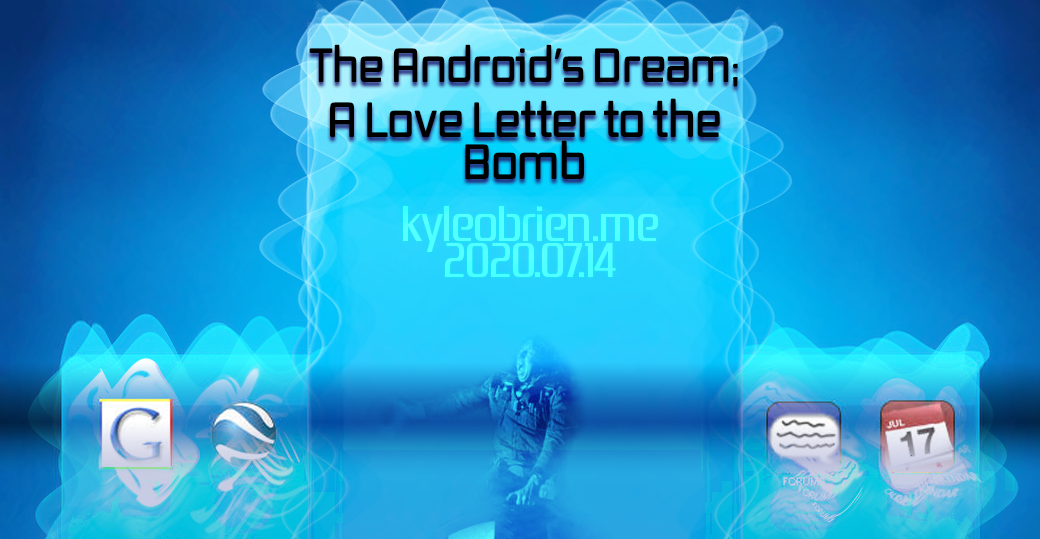
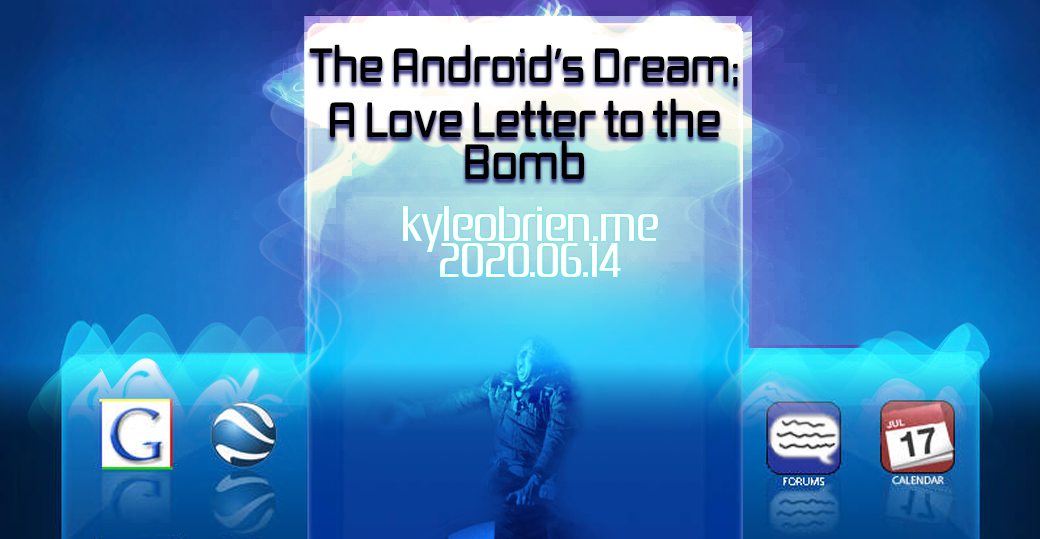
demote android-dream from featured

diff --git a/_posts/2020-06-14-the-androids-dream-a-love-letter-to-the-bomb.md b/_posts/2020-06-14-the-androids-dream-a-love-letter-to-the-bomb.md
@@ -11,7 +11,7 @@ categories:
   - narrative
 image:
   path: /assets/img/blog/posts/a-universe/the-androids-dream-cover-lg.png
-featured: true
+permalink: /the-androids-dream/
 ---
 
 #### [UPDATE.PBP](https://consolemods.org/wiki/PSP:Updating_your_Firmware_(OFW))
@@ -24,7 +24,7 @@ Agentic work is something I briefly touched on in my [AI ethics piece](/ai-ethic
 
 Automating my `XX` years of exploring the web, studying servers, testing infrastructure, writing code, all the things... What does it mean when we're building up whole universes at the snap of a finger? Alchemical weapons have existed long before the rise of LLMs, and reproducing failed tests typically increases the likelihood of greenery when mindfully inquired about. Whether this love letter falls apart or not, that's for anyone to say.
 
-There are many references to Docker containers, infrastructure (infra), and abstract representations of concepts (read: `colour`). There be dragons here.
+There are many references to Docker containers, infrastructure (infra), and abstract representations of concepts (read: `colour`). [There be dragons here](/assets/ephemera/wordpress-backup.conf).
 
 ## Introduction
 

diff --git a/_posts/2022-08-03-waking-software-engineering.md b/_posts/2022-08-03-waking-software-engineering.md
@@ -4,7 +4,7 @@ title: "Waking Software Engineering"
 date: 2022-08-03 00:00:00 +0000
 description: "When asked, \"How did you get started in software?\" I'll summarize my career path or share a handful of short stories about `the long, long ago` when I began tinkering with JavaScript..."
 image:
-  path: /assets/img/blog/posts/waking-software-engineering/waking-software-engineering-web-2.png
+  path: /assets/img/blog/posts/waking-software-engineering/waking-software-engineering.png
 categories: [life]
 tags: [career, narrative, startup]
 ---

diff --git a/_drafts/mirror-dark-mirror.md b/_drafts/mirror-dark-mirror.md
@@ -1,4 +1,12 @@
-MIRROR \| DARK MIRROR.md
+---
+layout: post
+title: "MIRROR | DARK MIRROR"
+date: 2026-12-01 00:00:00 +0000
+description: "RORRIM KRAD | RORRIM"
+image:
+  path: /assets/img/blog/posts/mirror-dark-mirror/cover-lg.png
+categories: [life]
+---
 
 ## Introduction
 
